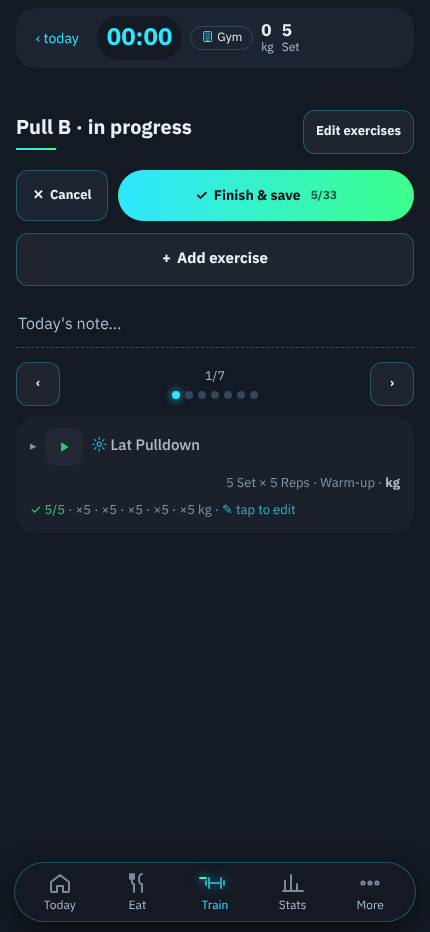
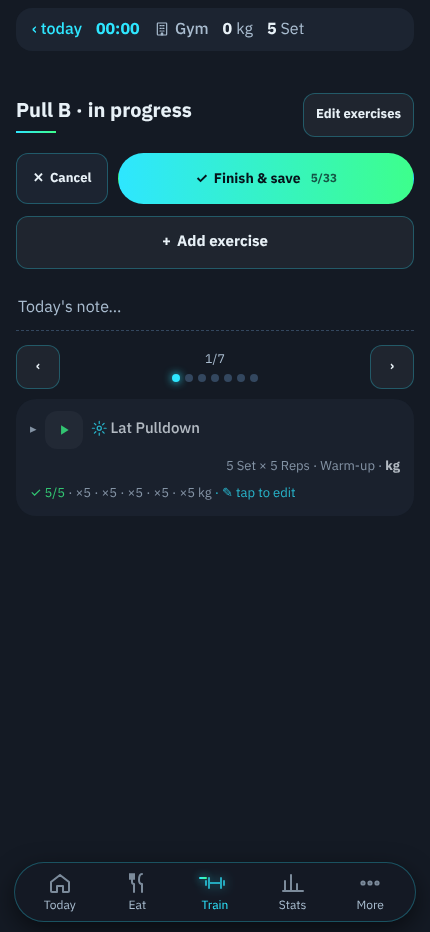
Workout top bar: one line, one text size (#176)
* docs: Today critique snapshot + redesign intent

Claude-Session: https://claude.ai/code/session_01TA1QFnqgBxBRFsiXemJ9Lg

* chore: ignore impeccable live-server state

Claude-Session: https://claude.ai/code/session_01TA1QFnqgBxBRFsiXemJ9Lg

* Today: plan first, one start button, inline meal tick, folded recovery

Claude-Session: https://claude.ai/code/session_01TA1QFnqgBxBRFsiXemJ9Lg

* docs: merge PR automatically once npm test passes

Claude-Session: https://claude.ai/code/session_01TA1QFnqgBxBRFsiXemJ9Lg

* docs: no OK wait between steps

Claude-Session: https://claude.ai/code/session_01TA1QFnqgBxBRFsiXemJ9Lg

* Today: recovery-aware start, undo on meal tick, progress bars, direct start

Claude-Session: https://claude.ai/code/session_01TA1QFnqgBxBRFsiXemJ9Lg

* Today: rested program leads, rest-day exit, inline meal cancel, over-target bar

Claude-Session: https://claude.ai/code/session_01TA1QFnqgBxBRFsiXemJ9Lg

* Today: body weight + 7-day change + weigh-in in the body card

Claude-Session: https://claude.ai/code/session_01TA1QFnqgBxBRFsiXemJ9Lg

* Today: body card shows weight, muscle mass and body fat

Claude-Session: https://claude.ai/code/session_01TA1QFnqgBxBRFsiXemJ9Lg

* Today: weigh-in opens the full body-log sheet

Claude-Session: https://claude.ai/code/session_01TA1QFnqgBxBRFsiXemJ9Lg

* Today: headline matches suggestion, inline cancel, blank weigh-in, fits above tab bar

Claude-Session: https://claude.ai/code/session_01TA1QFnqgBxBRFsiXemJ9Lg
[…]

diff --git a/public/index.html b/public/index.html
@@ -8,11 +8,11 @@
 <meta name="apple-mobile-web-app-status-bar-style" content="black-translucent">
 <meta name="apple-mobile-web-app-title" content="WeightGram">
 <link rel="manifest" href="/manifest.webmanifest">
-<link rel="apple-touch-icon" href="/apple-touch-icon.png?v=138600">
+<link rel="apple-touch-icon" href="/apple-touch-icon.png?v=138601">
 <title>WeightGram</title>
 <link rel="stylesheet" href="https://fonts.googleapis.com/css2?family=IBM+Plex+Sans+Thai:wght@400;500;700&family=IBM+Plex+Mono:wght@400;500&family=Share+Tech+Mono&display=swap">
 <style>:root{padding-top:env(safe-area-inset-top,0px);padding-bottom:env(safe-area-inset-bottom,0px)}*{-webkit-tap-highlight-color:transparent}body{margin:0;font-size:var(--t-sm);font-family:system-ui,sans-serif}img{max-width:100%}[hidden]{display:none!important}</style>
-<link rel="stylesheet" href="/css/app.css?v=138600">
+<link rel="stylesheet" href="/css/app.css?v=138601">
 </head><body>
 
 <div class="wrap">
@@ -277,37 +277,37 @@
   </div>
 </div>
 
-<script src="/js/core.js?v=138600"></script>
-<script src="/js/food.js?v=138600"></script>
-<script src="/js/locations.js?v=138600"></script>
-<script src="/js/programs.js?v=138600"></script>
-<script src="/js/run.js?v=138600"></script>
-<script src="/js/workout.js?v=138600"></script>
-<script src="/js/exercise-edit.js?v=138600"></script>
-<script src="/js/edit-tx.js?v=138600"></script>
-<script src="/js/exercise-library.js?v=138600"></script>
-<script src="/js/program-manager.js?v=138600"></script>
-<script src="/js/hero.js?v=138600"></script>
-<script src="/js/rest-timer.js?v=138600"></script>
-<script src="/js/auth.js?v=138600"></script>
-<script src="/js/push.js?v=138600"></script>
-<script src="/js/data-io.js?v=138600"></script>
-<script src="/js/sync.js?v=138600"></script>
-<script src="/js/muscle-map.js?v=138600"></script>
-<script src="/js/progress.js?v=138600"></script>
-<script src="/js/history-chart.js?v=138600"></script>
-<script src="/js/stats-extra.js?v=138600"></script>
-<script src="/js/meal-plan.js?v=138600"></script>
-<script src="/js/undo.js?v=138600"></script>
-<script src="/js/home.js?v=138600"></script>
-<script src="/js/share.js?v=138600"></script>
-<script src="/js/explore.js?v=138600"></script>
-<script src="/js/onboarding.js?v=138600"></script>
-<script src="/js/account.js?v=138600"></script>
-<script src="/js/share-card.js?v=138600"></script>
-<script src="/js/number-pad.js?v=138600"></script>
-<script src="/js/refresh.js?v=138600"></script>
-<script src="/js/app.js?v=138600"></script>
+<script src="/js/core.js?v=138601"></script>
+<script src="/js/food.js?v=138601"></script>
+<script src="/js/locations.js?v=138601"></script>
+<script src="/js/programs.js?v=138601"></script>
+<script src="/js/run.js?v=138601"></script>
+<script src="/js/workout.js?v=138601"></script>
+<script src="/js/exercise-edit.js?v=138601"></script>
+<script src="/js/edit-tx.js?v=138601"></script>
+<script src="/js/exercise-library.js?v=138601"></script>
+<script src="/js/program-manager.js?v=138601"></script>
+<script src="/js/hero.js?v=138601"></script>
+<script src="/js/rest-timer.js?v=138601"></script>
+<script src="/js/auth.js?v=138601"></script>
+<script src="/js/push.js?v=138601"></script>
+<script src="/js/data-io.js?v=138601"></script>
+<script src="/js/sync.js?v=138601"></script>
+<script src="/js/muscle-map.js?v=138601"></script>
+<script src="/js/progress.js?v=138601"></script>
+<script src="/js/history-chart.js?v=138601"></script>
+<script src="/js/stats-extra.js?v=138601"></script>
+<script src="/js/meal-plan.js?v=138601"></script>
+<script src="/js/undo.js?v=138601"></script>
+<script src="/js/home.js?v=138601"></script>
+<script src="/js/share.js?v=138601"></script>
+<script src="/js/explore.js?v=138601"></script>
+<script src="/js/onboarding.js?v=138601"></script>
+<script src="/js/account.js?v=138601"></script>
+<script src="/js/share-card.js?v=138601"></script>
+<script src="/js/number-pad.js?v=138601"></script>
+<script src="/js/refresh.js?v=138601"></script>
+<script src="/js/app.js?v=138601"></script>
 
 <div id="rec-wrap" class="stack" style="gap:10px" hidden><div class="rcf-head"><div class="sec-t" data-i="การฟื้นตัวของกล้ามเนื้อ">การฟื้นตัวของกล้ามเนื้อ</div><button class="btn sm" id="rec-cfg">⚙ <span data-i="ตั้งเวลาฟื้นตัว">ตั้งเวลาฟื้นตัว</span></button></div><div class="card" id="rec-body"></div></div>
 </body></html>

diff --git a/public/css/app.css b/public/css/app.css
@@ -1459,3 +1459,14 @@ html{-webkit-text-size-adjust:100%;touch-action:manipulation}
 #v-gym #step3>#wo-add{margin:0 0 6px}
 #v-gym #step3{padding-bottom:calc(var(--tabh) + 24px)!important}
 .hq-bw{grid-template-columns:repeat(4,minmax(0,1fr))!important}
+/* workout bar: one line, one text size */
+#v-gym #wo-top:not([hidden]){display:flex!important;align-items:baseline!important;gap:14px!important;padding:12px 16px!important;min-height:0!important;border-radius:16px!important;background:#1c2431!important;border:0!important;box-shadow:none!important;flex-wrap:nowrap;white-space:nowrap}
+#v-gym #wo-top>*{font:500 16px/1.2 var(--f-body)!important;letter-spacing:0!important;padding:0!important;margin:0!important;background:none!important;border:0!important;box-shadow:none!important;min-height:0!important;height:auto!important;border-radius:0!important}
+#v-gym #wo-top .wo-back{color:var(--cyan)!important}
+#v-gym #wo-top .wo-clock{color:var(--cyan)!important;font-weight:700!important;font-variant-numeric:tabular-nums}
+#v-gym #wo-top .wo-loc,#v-gym #wo-top .wo-loc *{color:var(--muted)!important;font-size:16px!important}
+#v-gym #wo-top .wo-loc svg{width:16px;height:16px;vertical-align:-2px}
+#v-gym #wo-top .wo-stat{display:inline-flex!important;flex-direction:row!important;align-items:baseline!important;gap:4px}
+#v-gym #wo-top .wo-stat b{font:700 16px/1.2 var(--f-body)!important;font-variant-numeric:tabular-nums;color:var(--text)}
+#v-gym #wo-top .wo-stat small{font:400 16px/1.2 var(--f-body)!important;color:var(--muted)!important}
+#v-gym #wo-top .wo-stat:first-of-type{margin-left:auto!important}

diff --git a/docs/work/2026-11-21-train-calm/plan-wo-top.md b/docs/work/2026-11-21-train-calm/plan-wo-top.md
@@ -1,0 +1,3 @@
+# Workout top bar: one line
+- [x] back · time · place · kg · sets all 16px on one baseline, flat card
+- [x] npm test, screenshot wo-top-line.png
